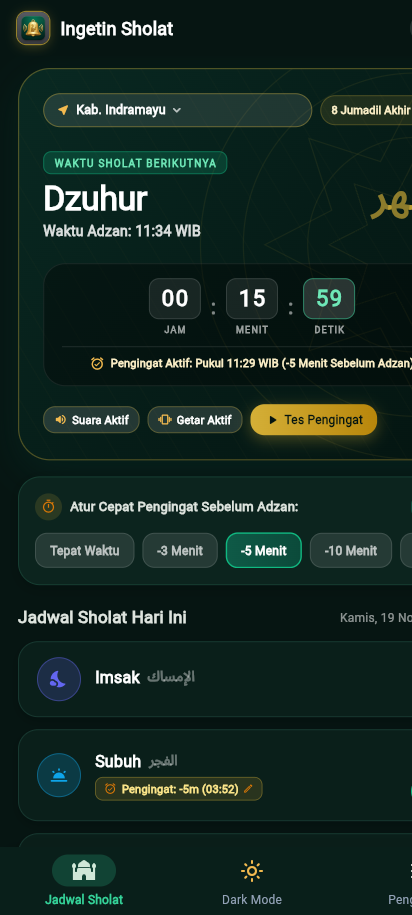
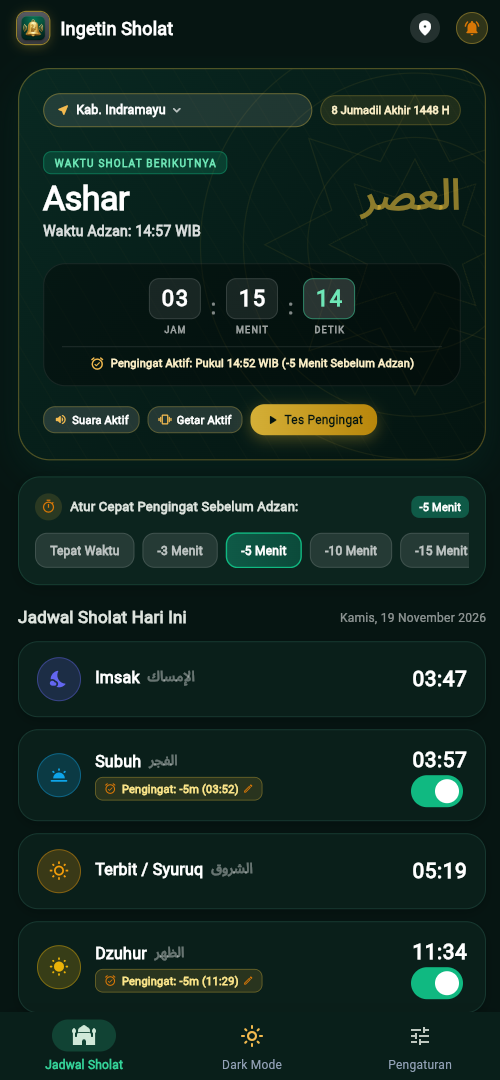
feat: add windows desktop support, fix full dark mode screenshot, and simplify notification tones to system defaults

diff --git a/lib/features/prayer_time/data/datasources/settings_local_datasource.dart b/lib/features/prayer_time/data/datasources/settings_local_datasource.dart
@@ -26,7 +26,7 @@ class SettingsLocalDataSourceImpl implements SettingsLocalDataSource {
           sharedPreferences.getBool(AppConstants.keyVibrationEnabled) ?? true;
       final tone =
           sharedPreferences.getString(AppConstants.keyNotificationTone) ??
-          'Adzan Suara Merdu';
+          'Nada Standar Sistem (Ringtone)';
       final cityId =
           sharedPreferences.getString(AppConstants.keySelectedCity) ??
           'indramayu';

diff --git a/lib/core/constants/app_constants.dart b/lib/core/constants/app_constants.dart
@@ -18,7 +18,7 @@ class AppConstants {
   static const int defaultOffsetMinutes = 5; // -5 menit sebelum adzan
   static const bool defaultSoundEnabled = true;
   static const bool defaultVibrationEnabled = true;
-  static const String defaultNotificationTone = 'Adzan Suara Merdu';
+  static const String defaultNotificationTone = 'Nada Standar Sistem (Ringtone)';
 }
 
 enum PrayerType { imsak, subuh, syuruq, dzuhur, ashar, maghrib, isya }

diff --git a/lib/features/prayer_time/presentation/pages/settings_page.dart b/lib/features/prayer_time/presentation/pages/settings_page.dart
@@ -443,11 +443,9 @@ class SettingsPage extends StatelessWidget {
 
   void _showTonePicker(BuildContext context, String currentTone) {
     const tones = [
-      'Adzan Suara Merdu',
-      'Adzan Makkah Al-Mukarramah',
-      'Adzan Madinah Al-Munawwarah',
-      'Nada Lembut Islami',
+      'Nada Standar Sistem (Ringtone)',
       'Beep Alarm Pengingat',
+      'Nada Notifikasi Lembut',
     ];
 
     showModalBottomSheet(

diff --git a/lib/features/prayer_time/domain/entities/reminder_settings.dart b/lib/features/prayer_time/domain/entities/reminder_settings.dart
@@ -26,7 +26,7 @@ class ReminderSettings extends Equatable {
     },
     this.soundEnabled = true,
     this.vibrationEnabled = true,
-    this.notificationTone = 'Adzan Suara Merdu',
+    this.notificationTone = 'Nada Standar Sistem (Ringtone)',
     this.selectedCityId = 'indramayu',
     this.isDarkMode = false,
   });

diff --git a/windows/runner/main.cpp b/windows/runner/main.cpp
@@ -27,7 +27,7 @@ int APIENTRY wWinMain(_In_ HINSTANCE instance, _In_opt_ HINSTANCE prev,
   FlutterWindow window(project);
   Win32Window::Point origin(10, 10);
   Win32Window::Size size(1280, 720);
-  if (!window.Create(L"flutter_master_starter", origin, size)) {
+  if (!window.Create(L"Ingetin Sholat", origin, size)) {
     return EXIT_FAILURE;
   }
   window.SetQuitOnClose(true);

diff --git a/README.md b/README.md
@@ -57,7 +57,7 @@ Bilah navigasi bawah dirancang sederhana dan ergonomis:
 3. **Pengaturan**: Menu pengaturan terfokus dan bersih (tanpa opsi yang redundan).
 
 ### 5. 🔔 Kontrol Notifikasi, Bunyi Adzan & Getar
-- Pilihan nada suara adzan & pengingat: *Adzan Suara Merdu, Adzan Makkah Al-Mukarramah, Adzan Madinah Al-Munawwarah, Nada Lembut Islami, dan Beep Alarm*.
+- Pilihan nada suara & pengingat: *Nada Standar Sistem (Ringtone), Beep Alarm Pengingat, dan Nada Notifikasi Lembut*.
 - Tombol uji coba langsung (**"Tes Pengingat"**) untuk mendengarkan bunyi dan merasakan getaran haptic.
 
 ---
